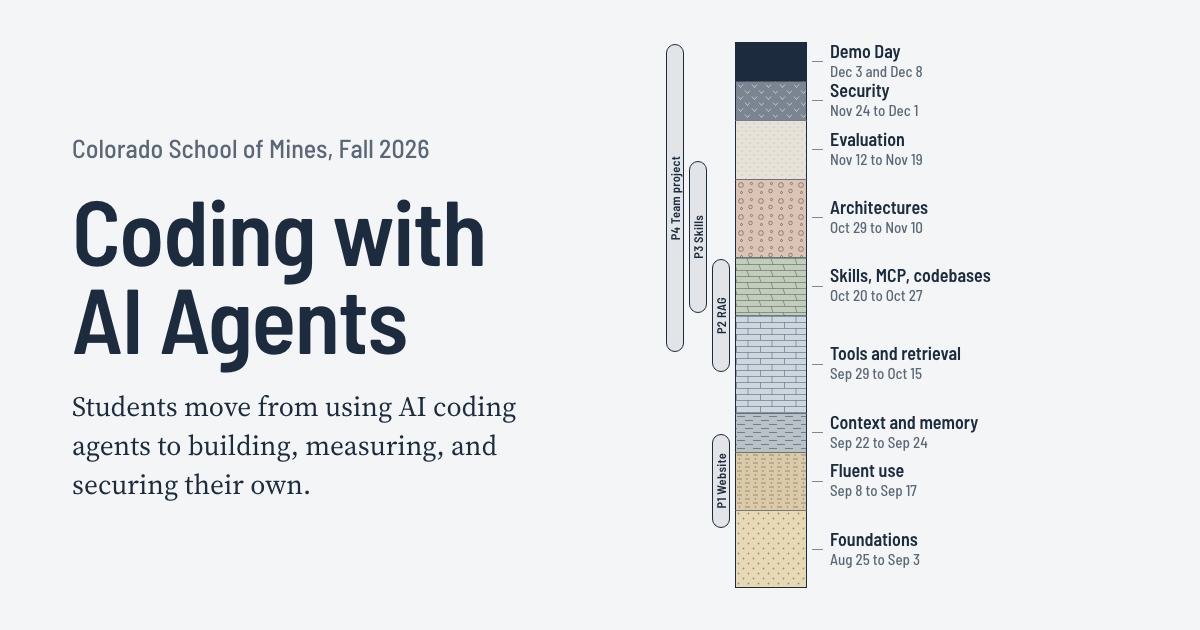
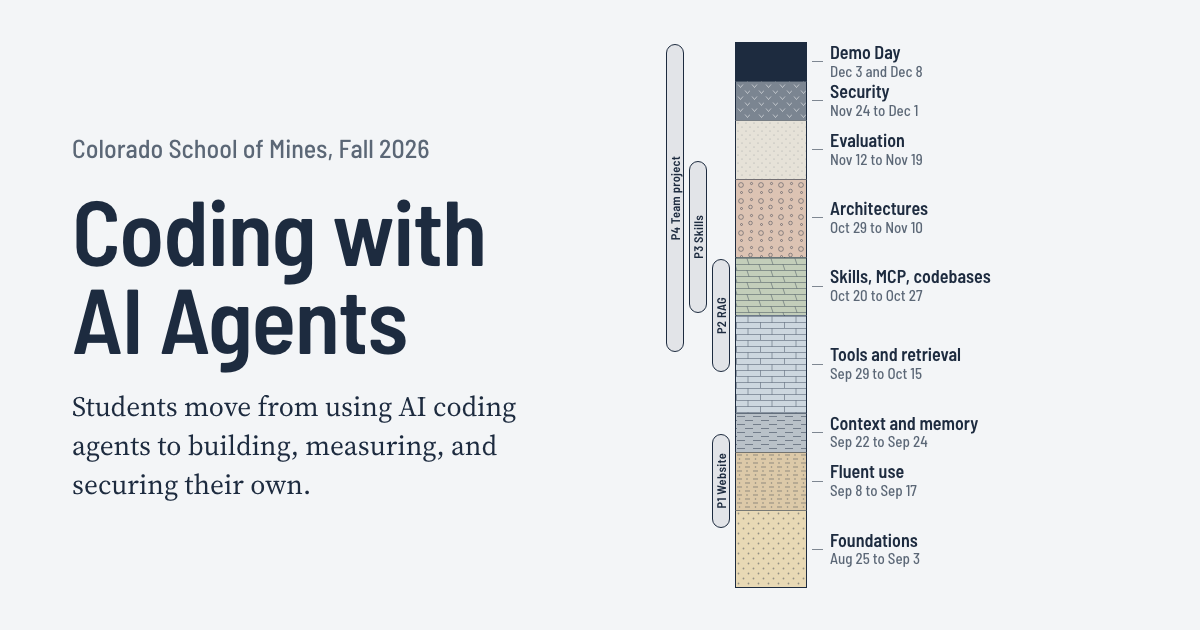
Review fixes: phone-width column labels, claims, Mountain-time status, preview redirect
- The curriculum column shows short module names on phones, and rows are taller,
  so thin two-lecture layers keep a clear gap at every width (measured 375-1440).
- The build note no longer calls the course's emphases rare, which compared it
  with other universities; the nine-agent critique is described by its real lenses.
- Lecture 25 keeps its real title, Open SOTA Discussion.
- Project status lines use the date in Golden, Colorado, not the runner's UTC clock,
  and the Team project reads 'under way until Demo Day' while it runs.
- The preview server redirects /course to /course/, as GitHub Pages does.
- check.py scans the page and content sources for private file names too.
- A shorter share description for the build page.

diff --git a/pages/how-it-was-built.html b/pages/how-it-was-built.html
@@ -4,7 +4,7 @@
   "class": "page-built",
   "title": "How this course was built | Coding with AI Agents",
   "og_title": "How a course about coding agents was built with coding agents",
-  "description": "The instructor of Coding with AI Agents at Colorado School of Mines on how the course was built with Claude Code: six reusable skills, research before writing, reviewer agents, and a student repository designed for agents."
+  "description": "How Coding with AI Agents at Colorado School of Mines was built with Claude Code: six reusable skills, research before writing, and reviewer agents."
 } -->
 <article class="article">
   <div class="wrap">
@@ -42,7 +42,7 @@
       <p>Each skill is a living document. When I say I want something done differently, the change goes into the skill, so every later lecture follows it without my having to repeat myself.</p>
 
       <h2>Research comes before writing.</h2>
-      <p>Before I wrote a lecture, seven research agents surveyed the public course listings of about 150 US universities to see what was already being taught about coding agents. That snapshot, from June 2026, pushed the course toward the parts that were rare: writing an agent from the raw model API and then porting it to a production SDK, building an MCP server, measuring retrieval with real information-retrieval metrics, treating evaluation as an experiment, and a full unit on agent security. Nine more agents then critiqued the whole design from the points of view of students, researchers, and people who hire engineers, and in late July a twelve-agent pass checked every lecture plan against the newest models and tools before the semester began.</p>
+      <p>Before I wrote a lecture, seven research agents surveyed the public course listings of about 150 US universities to see what was already being taught about coding agents. What they found, as of June 2026, shaped where the course puts its weight: writing an agent from the raw model API and then porting it to a production SDK, building an MCP server, measuring retrieval with real information-retrieval metrics, treating evaluation as an experiment, and a full unit on agent security. Nine more agents then critiqued the whole design: six read it as students with different backgrounds, and three read it for how current it was, how deep it went, and what employers look for. In late July, a twelve-agent pass checked every lecture plan against the newest models and tools before the semester began.</p>
       <p>The same habit continues during the semester. When I judged the first plan for lecture 7 too basic for students who had already built and steered an agent loop, a research pass through about 150 primary sources rebuilt it around five rules for debugging agent output. Lectures 8 to 11 were rebuilt the same way.</p>
 
       <h2>The agent writes, and something else checks.</h2>

diff --git a/static/css/site.css b/static/css/site.css
@@ -374,7 +374,7 @@ code {
 }
 
 .strata {
-  --u: 20px;
+  --u: 22px;
   --col: 72px;
   --line: rgba(29, 43, 63, 0.55);
   display: grid;
@@ -384,7 +384,7 @@ code {
 }
 
 .strata-full .strata {
-  --u: 22px;
+  --u: 24px;
   --col: 88px;
 }
 
@@ -435,14 +435,18 @@ code {
   font-family: var(--head);
   font-weight: 600;
   font-size: 17px;
-  line-height: 1.1;
+  line-height: 1.05;
+}
+
+.name-short {
+  display: none;
 }
 
 .layer-when {
   font-family: var(--head);
   font-weight: 500;
   font-size: 14px;
-  line-height: 1.25;
+  line-height: 1.2;
   color: var(--slate);
 }
 
@@ -1049,6 +1053,24 @@ code {
 
   .steps li {
     grid-template-columns: minmax(0, 1fr);
+  }
+
+  /* The full column switches to the short labels, so thin layers never collide. */
+  .strata-full .name-long,
+  .strata-full .when-lectures {
+    display: none;
+  }
+
+  .strata-full .name-short {
+    display: inline;
+  }
+
+  .strata-full .layer-name {
+    font-size: 17px;
+  }
+
+  .strata-full .layer-when {
+    font-size: 14px;
   }
 }
 

diff --git a/build.py b/build.py
@@ -18,16 +18,19 @@ import re
 import shutil
 import subprocess
 import sys
-from datetime import date
+from datetime import date, datetime
 from functools import partial
 from http.server import SimpleHTTPRequestHandler, ThreadingHTTPServer
 from pathlib import Path
+from zoneinfo import ZoneInfo
 
 ROOT = Path(__file__).resolve().parent
 OUT = ROOT / "_site"
 SITE = json.loads((ROOT / "content" / "site.json").read_text())
 CURRICULUM = json.loads((ROOT / "content" / "curriculum.json").read_text())
 BASE = SITE["base_path"]
+# Project status lines follow the calendar in Golden, Colorado, not the build machine's clock.
+COURSE_TZ = ZoneInfo("America/Denver")
 
 META_RE = re.compile(r"\A<!--\s*(\{.*?\})\s*-->\s*", re.S)
 SLOT_RE = re.compile(r"\{\{\s*([a-z_]+)\s*\}\}")
@@ -75,20 +78,29 @@ def project_dates(project):
     return day(lecture(project["from"])["date"]), day(lecture(project["to"])["date"])
 
 
+def demo_day():
+    """"Demo Day on December 3 and 8", from the dates of the Demo Day lectures."""
+    days = [day(lec["date"]) for m in CURRICULUM["modules"] if m["number"] is None for lec in m["lectures"]]
+    if all(d.month == days[0].month for d in days):
+        return f"Demo Day on {long_date(days[0])} and {' and '.join(str(d.day) for d in days[1:])}"
+    return "Demo Day on " + " and ".join(long_date(d) for d in days)
+
+
 def project_status(project, today):
+    """One line on where a project stands, computed from the calendar on the day of the build."""
     start, due = project_dates(project)
-    if project["id"] == "P4":
-        demo = "presented at Demo Day on December 3 and 8"
+    kind = f"{project['format']} project"
+    if project["to"] == len(lectures()):
         if today > due:
-            return f"{project['format']} project, presented at Demo Day on December 3 and 8."
+            return f"{kind}, presented at {demo_day()}."
         if today >= start:
-            return f"{project['format']} project, under way and {demo}."
-        return f"{project['format']} project, from {long_date(start)} to Demo Day on December 3 and 8."
+            return f"{kind}, under way until {demo_day()}."
+        return f"{kind}, from {long_date(start)} to {demo_day()}."
     if today > due:
-        return f"{project['format']} project, handed in {long_date(due)}."
+        return f"{kind}, handed in {long_date(due)}."
     if today >= start:
-        return f"{project['format']} project, under way and due {long_date(due)}."
-    return f"{project['format']} project, {long_date(start)} to {long_date(due)}."
+        return f"{kind}, under way and due {long_date(due)}."
+    return f"{kind}, {long_date(start)} to {long_date(due)}."
 
 
 def project_lanes():
@@ -119,16 +131,22 @@ def strata(variant):
         first, last = module["lectures"][0], module["lectures"][-1]
         rows = f"grid-row: {total + 1 - last['n']} / {total + 2 - first['n']}"
         anchor = module["number"] or "demo-day"
-        name = module["name"] if full else module["short"]
         start, end = day(first["date"]), day(last["date"])
         when = f"{short_date(start)} to {short_date(end)}" if start != end else short_date(start)
         if module["number"] is None:
             when = f"{short_date(start)} and {short_date(end)}"
-        detail = f"Lectures {first['n']} to {last['n']}, {when}" if full and module["number"] else when
+        if full:
+            # Long names on wide screens; the CSS swaps in the short names on phones.
+            name = (f'<span class="name-long">{e(module["name"])}</span>'
+                    f'<span class="name-short">{e(module["short"])}</span>')
+            lectures_part = f"Lectures {first['n']} to {last['n']}, " if module["number"] else ""
+            detail = f'<span class="when-lectures">{lectures_part}</span>{e(when)}' if lectures_part else e(when)
+        else:
+            name, detail = e(module["short"]), e(when)
         items.append(
             f'<div class="layer rock-{module["rock"]}" style="{rows}; --i: {i}" aria-hidden="true"></div>'
             f'<a class="layer-label" style="{rows}" href="{link.format(anchor)}">'
-            f'<span class="layer-name">{e(name)}</span><span class="layer-when">{e(detail)}</span></a>'
+            f'<span class="layer-name">{name}</span><span class="layer-when">{detail}</span></a>'
         )
     for project in CURRICULUM["projects"]:
         start, due = project_dates(project)
@@ -224,7 +242,7 @@ def last_updated():
                              capture_output=True, text=True, check=True).stdout.strip()
         return date.fromisoformat(out)
     except (subprocess.CalledProcessError, FileNotFoundError, ValueError):
-        return date.today()
+        return datetime.now(COURSE_TZ).date()
 
 
 def asset_version():
@@ -243,7 +261,7 @@ def read_page(path):
 
 
 def build(today=None):
-    today = today or date.today()
+    today = today or datetime.now(COURSE_TZ).date()
     if OUT.exists():
         shutil.rmtree(OUT)
     shutil.copytree(ROOT / "static", OUT / "static")
@@ -304,6 +322,25 @@ def build(today=None):
 
 class PrefixHandler(SimpleHTTPRequestHandler):
     """Serve _site/ under the base path, the way GitHub Pages serves a project site."""
+
+    def do_GET(self):
+        if not self.redirect_bare_base():
+            super().do_GET()
+
+    def do_HEAD(self):
+        if not self.redirect_bare_base():
+            super().do_HEAD()
+
+    def redirect_bare_base(self):
+        """Send /course to /course/, as GitHub Pages does."""
+        path, _, query = self.path.partition("?")
+        if path != BASE.rstrip("/"):
+            return False
+        self.send_response(301)
+        self.send_header("Location", BASE + (f"?{query}" if query else ""))
+        self.send_header("Content-Length", "0")
+        self.end_headers()
+        return True
 
     def translate_path(self, path):
         if path.startswith(BASE):

diff --git a/check.py b/check.py
@@ -201,7 +201,7 @@ def check_text():
     sources = [p for p in ROOT.glob("content/*.json")] + list(ROOT.glob("pages/*.html")) + list(ROOT.glob("templates/*.html"))
     dashes = [str(p.relative_to(ROOT)) for p in built + sources if "—" in p.read_text()]
     check(not dashes, "text: no em dash anywhere" + (f" ({', '.join(dashes)})" if dashes else ""))
-    leaks = sorted({f"{p.relative_to(OUT)}: {w}" for p in built for w in FORBIDDEN if w in p.read_text().lower()})
+    leaks = sorted({f"{p.relative_to(ROOT)}: {w}" for p in built + sources for w in FORBIDDEN if w in p.read_text().lower()})
     check(not leaks, "text: no private instructor-repo file names" + (f" ({'; '.join(leaks[:4])})" if leaks else ""))
 
 
